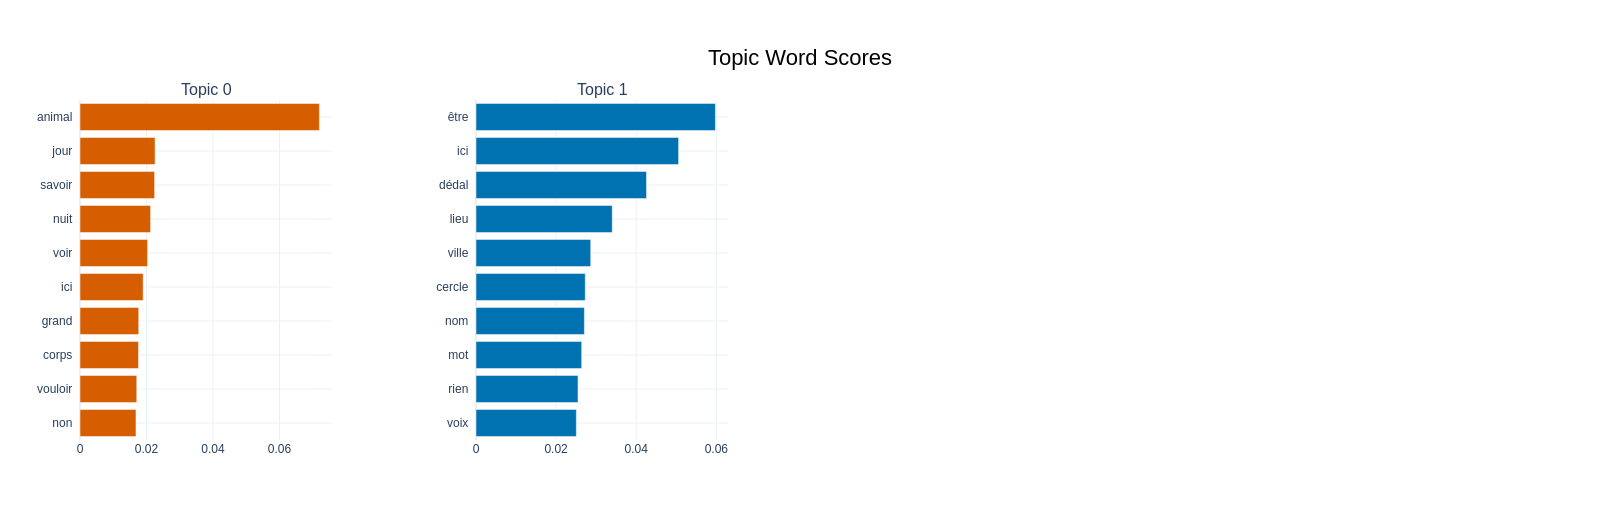
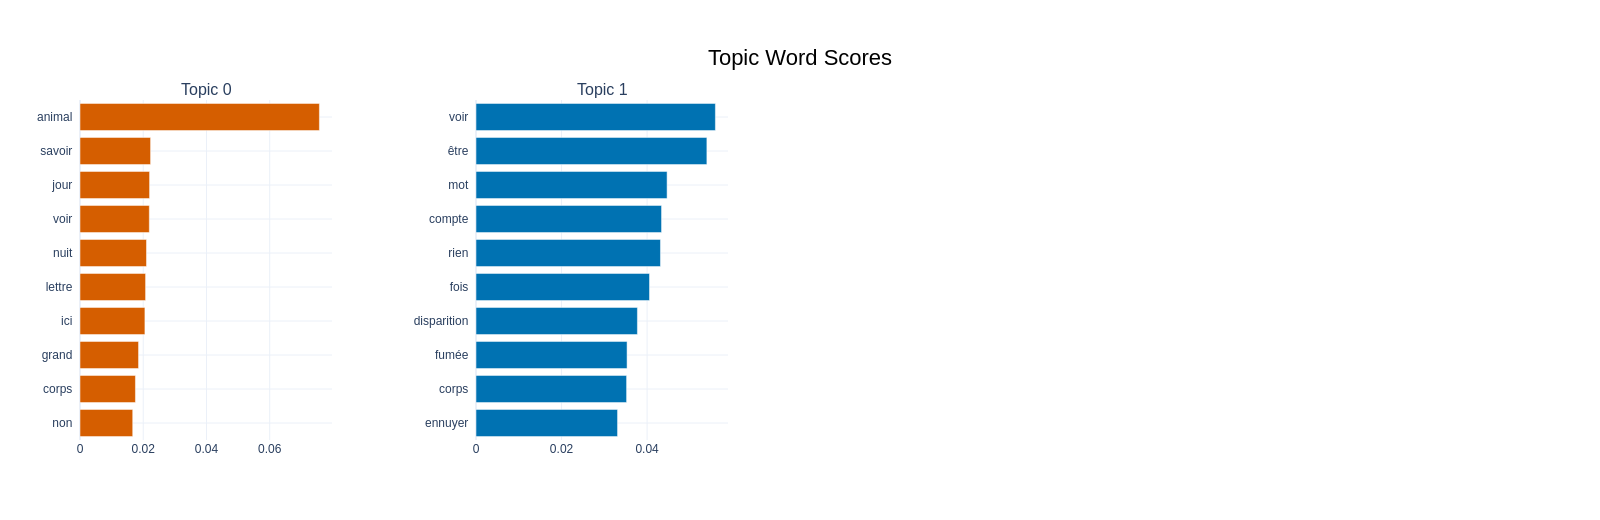
novo bertopic

diff --git a/modelagemTopicos/bertopic3.py b/modelagemTopicos/bertopic3.py
@@ -12,6 +12,9 @@ from gensim.corpora import Dictionary
 from nltk.corpus import stopwords
 from nltk.tokenize import word_tokenize
 
+os.environ["TOKENIZERS_PARALLELISM"] = "false"
+
+
 # ==============================================================================
 # 1. CONFIGURAÇÕES E CONSTANTES
 # ==============================================================================
@@ -132,7 +135,7 @@ if __name__ == '__main__':
     # --- Parte 4: Criação e Treinamento do Modelo BERTopic ---
     print("📚 Criando e treinando o modelo BERTopic...")
     # 'nr_topics="auto"' permite que o BERTopic encontre o número ótimo de tópicos
-    topic_model = BERTopic(language="multilingual", nr_topics=3)
+    topic_model = BERTopic(language="multilingual", nr_topics=4) # 3 até o 8
     topics, _ = topic_model.fit_transform(poemas_limpos, embeddings)
 
     # --- Parte 5: Análise e Salvamento dos Resultados ---
